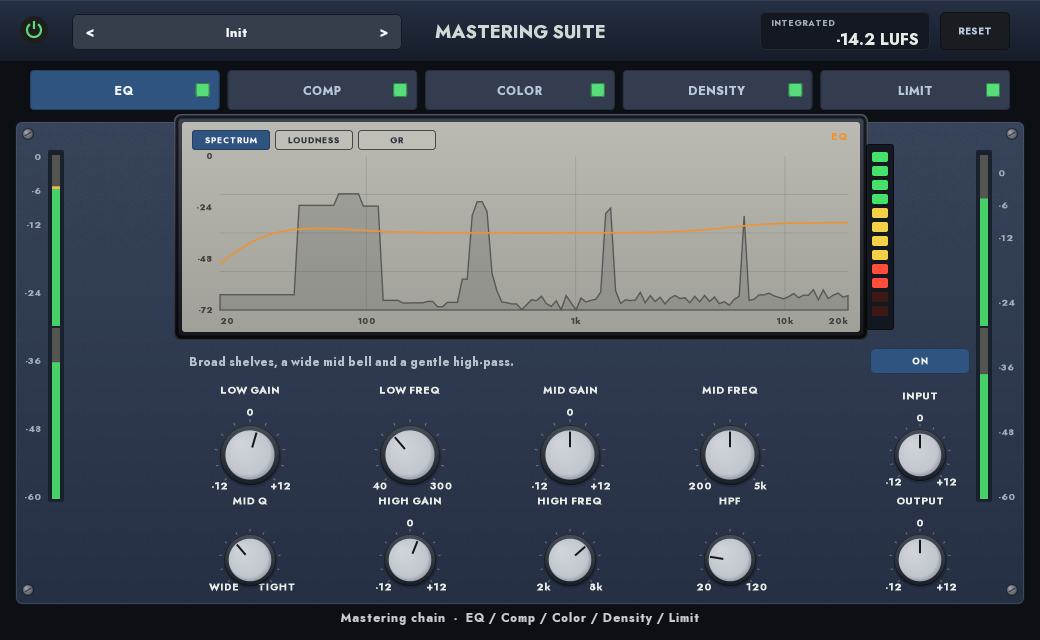
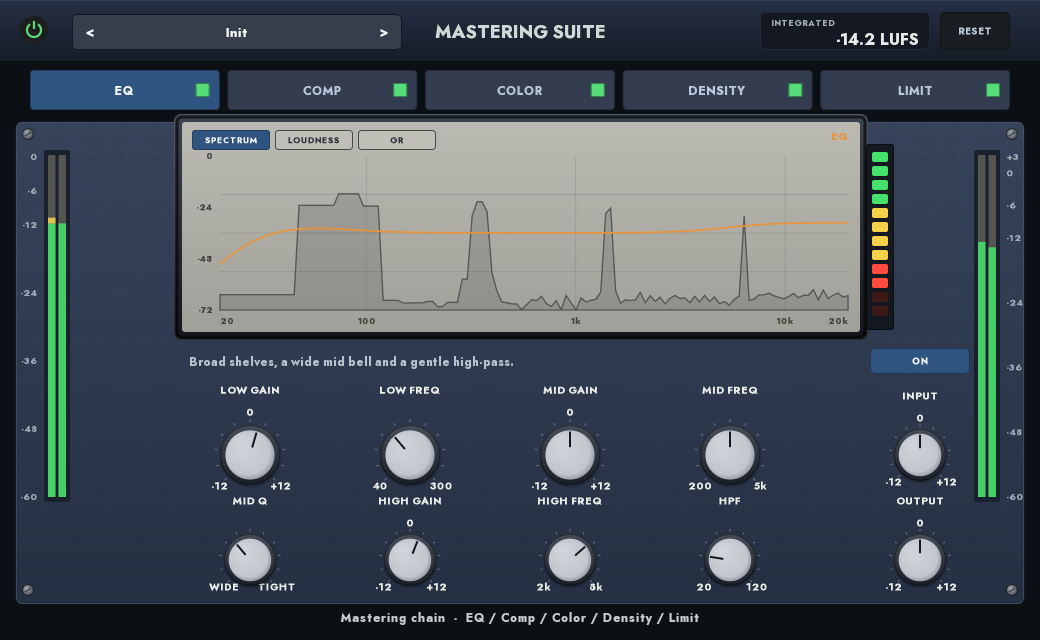
Fix input/output meter scale and side-by-side channel bars

Changed region(s): [[0.9231, 0.2188, 0.9846, 0.7812], [0.0308, 0.2188, 0.0923, 0.7812]]

diff --git a/src/ui/panel.cpp b/src/ui/panel.cpp
@@ -382,9 +382,9 @@ void Panel::draw(cairo_t* cr, Shared& shared, const PanelState& state) {
   drawBody(cr);
   drawDisplay(cr, shared, state, 0);
   drawLeds(cr, shared);
-  drawLevelMeter(cr, 48, 150, 16, 352, state.inLevelL, state.inLevelR, -60.0,
+  drawLevelMeter(cr, 44, 150, 26, 352, state.inLevelL, state.inLevelR, -60.0,
                  0.0, false);
-  drawLevelMeter(cr, 976, 150, 16, 352, state.outLevelL, state.outLevelR,
+  drawLevelMeter(cr, 974, 150, 26, 352, state.outLevelL, state.outLevelR,
                  -60.0, 3.0, true);
 
   static const char* const kCaptions[5] = {
@@ -763,20 +763,25 @@ void Panel::drawLevelMeter(cairo_t* cr, double x, double y, double w, double h,
   cairo_fill(cr);
   const double l = clamp01((dbL - minDb) / (maxDb - minDb));
   const double r = clamp01((dbR - minDb) / (maxDb - minDb));
-  const double bh = (h - 10) * 0.5;
+  constexpr double inset = 4.0;
+  constexpr double gap = 3.0;
+  const double barW = (w - 2.0 * inset - gap) * 0.5;
+  const double barTop = y + 5.0;
+  const double barH = h - 10.0;
   const double greenTop = clamp01((-12.0 - minDb) / (maxDb - minDb));
   const double yellowTop = clamp01((-3.0 - minDb) / (maxDb - minDb));
   for (int ch = 0; ch < 2; ++ch) {
     const double lv = ch == 0 ? l : r;
-    const double by = y + 5 + ch * (bh + 2);
-    roundRect(cr, x + 4, by, w - 8, bh, 1);
+    const double bx = x + inset + ch * (barW + gap);
+    roundRect(cr, bx, barTop, barW, barH, 1);
     setRgb(cr, mix(kSkin.meterFace, {0, 0, 0}, 0.55));
     cairo_fill(cr);
 
     auto zone = [&](Rgb colour, double from, double to) {
       if (to <= from) return;
       setRgb(cr, colour, 0.88);
-      cairo_rectangle(cr, x + 4, by + bh - to * bh, w - 8, (to - from) * bh);
+      cairo_rectangle(cr, bx, barTop + barH - to * barH, barW,
+                      (to - from) * barH);
       cairo_fill(cr);
     };
     const double greenEnd = std::min(lv, greenTop);
@@ -787,9 +792,17 @@ void Panel::drawLevelMeter(cairo_t* cr, double x, double y, double w, double h,
       if (lv > yellowTop) zone({1.0, 0.30, 0.24}, yellowTop, lv);
     }
   }
-  const char* labels[] = {"0", "-6", "-12", "-24", "-36", "-48", "-60"};
-  const double values[] = {0, -6, -12, -24, -36, -48, -60};
-  for (int i = 0; i < 7; ++i) {
+  static const char* const kInputLabels[] = {"0",   "-6",  "-12", "-24",
+                                             "-36", "-48", "-60"};
+  static const double kInputValues[] = {0, -6, -12, -24, -36, -48, -60};
+  static const char* const kOutputLabels[] = {"+3",  "0",   "-6",  "-12",
+                                              "-24", "-36", "-48", "-60"};
+  static const double kOutputValues[] = {3, 0, -6, -12, -24, -36, -48, -60};
+  const bool outputScale = maxDb > 0.5;
+  const char* const* labels = outputScale ? kOutputLabels : kInputLabels;
+  const double* values = outputScale ? kOutputValues : kInputValues;
+  const int labelCount = outputScale ? 8 : 7;
+  for (int i = 0; i < labelCount; ++i) {
     const double fy = y + 6 + (h - 12) * (values[i] - maxDb) / (minDb - maxDb);
     if (labelsRight) {
       text(cr, labels[i], x + w + 7, fy + 4, 9, 0, kSkin.legendDim.r,
